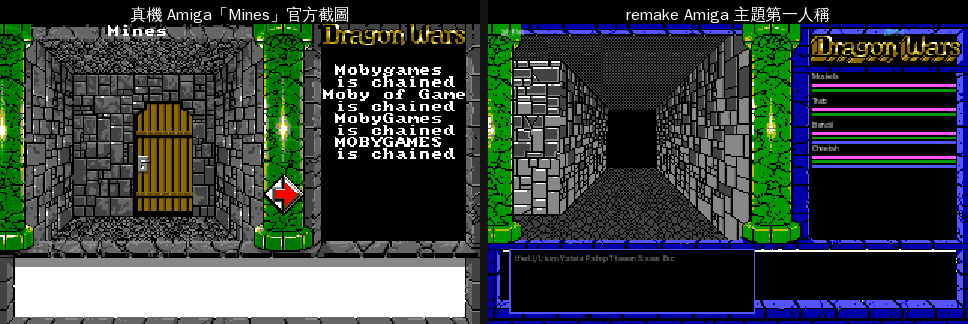
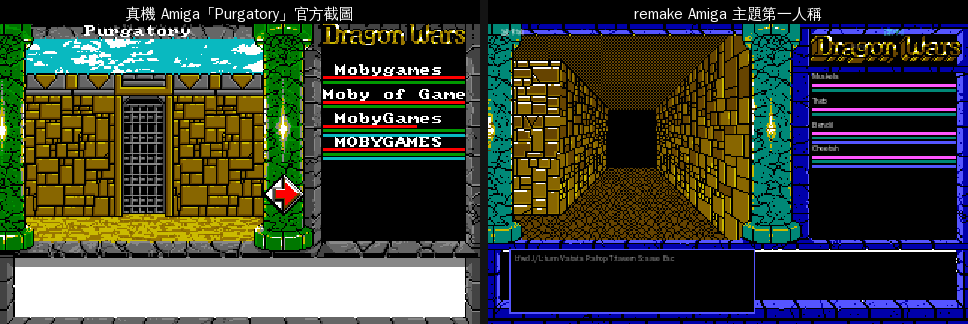
fix(viewport): Amiga 地牢配色改校準自真機 Purgatory 起始區(土黃磚牆)
使用者回饋:先前校準到「Mines」灰石不對,真機 Amiga 起始區是土黃磚牆。

改用真機 dragon-wars_5/9.png(Purgatory 起始地牢 FP,玩家開局第一印象)校準
kAmigaViewportPalette:土黃磚牆 136,102,0 + 金黃高光 203,187,0 + 棕縫 102,68,0 +
青柱——直方圖取樣自真機。沿用 DOS 精確透視幾何不變。

- 重生 amiga_vs_dos_fp.png(DOS 紅地板 vs Amiga 土黃磚)+ amiga_real_vs_remake.png
  (真機 Purgatory vs remake,佐證土黃吻合)。
- README 更新:灰石/Mines → 土黃磚牆/Purgatory。

ctest 34/34。

Changed region(s): [[0.3099, 0.0, 0.9917, 0.7716], [0.0, 0.0, 0.3719, 0.7716]]

diff --git a/opendw_remake/src/render/ui_theme.hpp b/opendw_remake/src/render/ui_theme.hpp
@@ -114,25 +114,26 @@ struct UiTheme {
 //   原生 Amiga viewport 圖塊的「重組落點」需逆出 Amiga 引擎 blit 錨點演算法,且官方截圖
 //   無「長走廊」可作側牆遞遠的對位真值 → 原生圖塊組裝暫擱置(見 viewport_amiga.hpp / docs/61)。
 //   改採有界方案:沿用 **DOS golden 精確透視幾何**(byte-for-byte 對拍那條),調色盤**校準自
-//   真機 Amiga「Mines」地牢 FP 截圖**(amiga_screenshot_official/dragon-wars_11.png,直方圖實測:
-//   石牆灰階 67/102/136、地板/天花灰、木門棕、柱綠)→ 透視 100% 收斂且配色忠於真 Amiga。
-//   索引語意對齊 DOS viewport 實際用色(idx3/7/8/11=石牆、idx4/12=地板天花)。
+//   真機 Amiga「Purgatory」起始地牢 FP 截圖**(amiga_screenshot_official/dragon-wars_5/9.png,
+//   直方圖實測:土黃磚牆 136,102,0、金黃高光 203,187,0、棕縫 102,68,0、青柱)→ 透視 100%
+//   收斂且配色忠於真 Amiga 起始區(玩家第一印象的土黃磚牆,非 Mines 灰)。
+//   索引語意對齊 DOS viewport 實際用色(idx3/7/8/11=磚牆、idx4/12=地板天花)。
 inline constexpr std::array<Rgb, 16> kAmigaViewportPalette = {{
   {0x00,0x00,0x00},  // 0 黑(遠景開口/門凹/陰影)
   {0x00,0x00,0xAA},  // 1
-  {0x00,0x99,0x00},  // 2 綠(柱/裝飾;真機綠 0,153,0)
-  {0x88,0x88,0x88},  // 3 中灰石牆(原 DOS teal → 真機 136 灰)
-  {0x43,0x43,0x43},  // 4 暗灰地板/天花(原 DOS 紅 → 真機灰,非紅非棕)
+  {0x00,0x88,0x77},  // 2 青(柱/裝飾;真機青 0,136,119)
+  {0x88,0x66,0x00},  // 3 土黃磚牆主面(原 DOS teal → 真機 136,102,0)
+  {0x66,0x44,0x00},  // 4 棕地板/天花(原 DOS 紅 → 真機磚縫棕 102,68,0)
   {0xAA,0x00,0xAA},  // 5
-  {0x8B,0x69,0x00},  // 6 木門棕(真機門 139,105,0)
-  {0x88,0x88,0x88},  // 7 亮灰石牆(原 DOS 亮灰;真機 136)
-  {0x43,0x43,0x43},  // 8 暗灰石牆(原 DOS 暗灰;真機 67)
+  {0x66,0x44,0x00},  // 6 棕門/縫
+  {0x99,0x77,0x00},  // 7 亮土黃磚(原 DOS 亮灰 → 真機 153,119,0)
+  {0x66,0x44,0x00},  // 8 暗棕磚縫(原 DOS 暗灰 → 真機 102,68,0)
   {0x55,0x55,0xFF},  // 9
-  {0x00,0x99,0x00},  // 10 綠
-  {0x66,0x66,0x66},  // 11 中灰石牆高光(原 DOS 亮青 → 真機 102 灰)
-  {0x66,0x66,0x66},  // 12 中灰地板(原 DOS 亮紅 → 真機灰)
+  {0x00,0x88,0x77},  // 10 青
+  {0xCB,0xBB,0x00},  // 11 金黃磚高光(原 DOS 亮青 → 真機 203,187,0)
+  {0x99,0x77,0x00},  // 12 亮土黃地板(原 DOS 亮紅 → 真機 153,119,0)
   {0xFF,0x55,0xFF},  // 13
-  {0xCC,0xBC,0x00},  // 14 木門金黃細節(真機 204,188,0)
+  {0xCB,0xBB,0x00},  // 14 金黃高光細節(真機 204,188,0)
   {0xFF,0xFF,0xFF}}};// 15 白(邊緣高光)
 
 // 結局過場各場景的英文敘事鍵(經 tr() 在地化 → 繁中/日;查無回退英文)。
